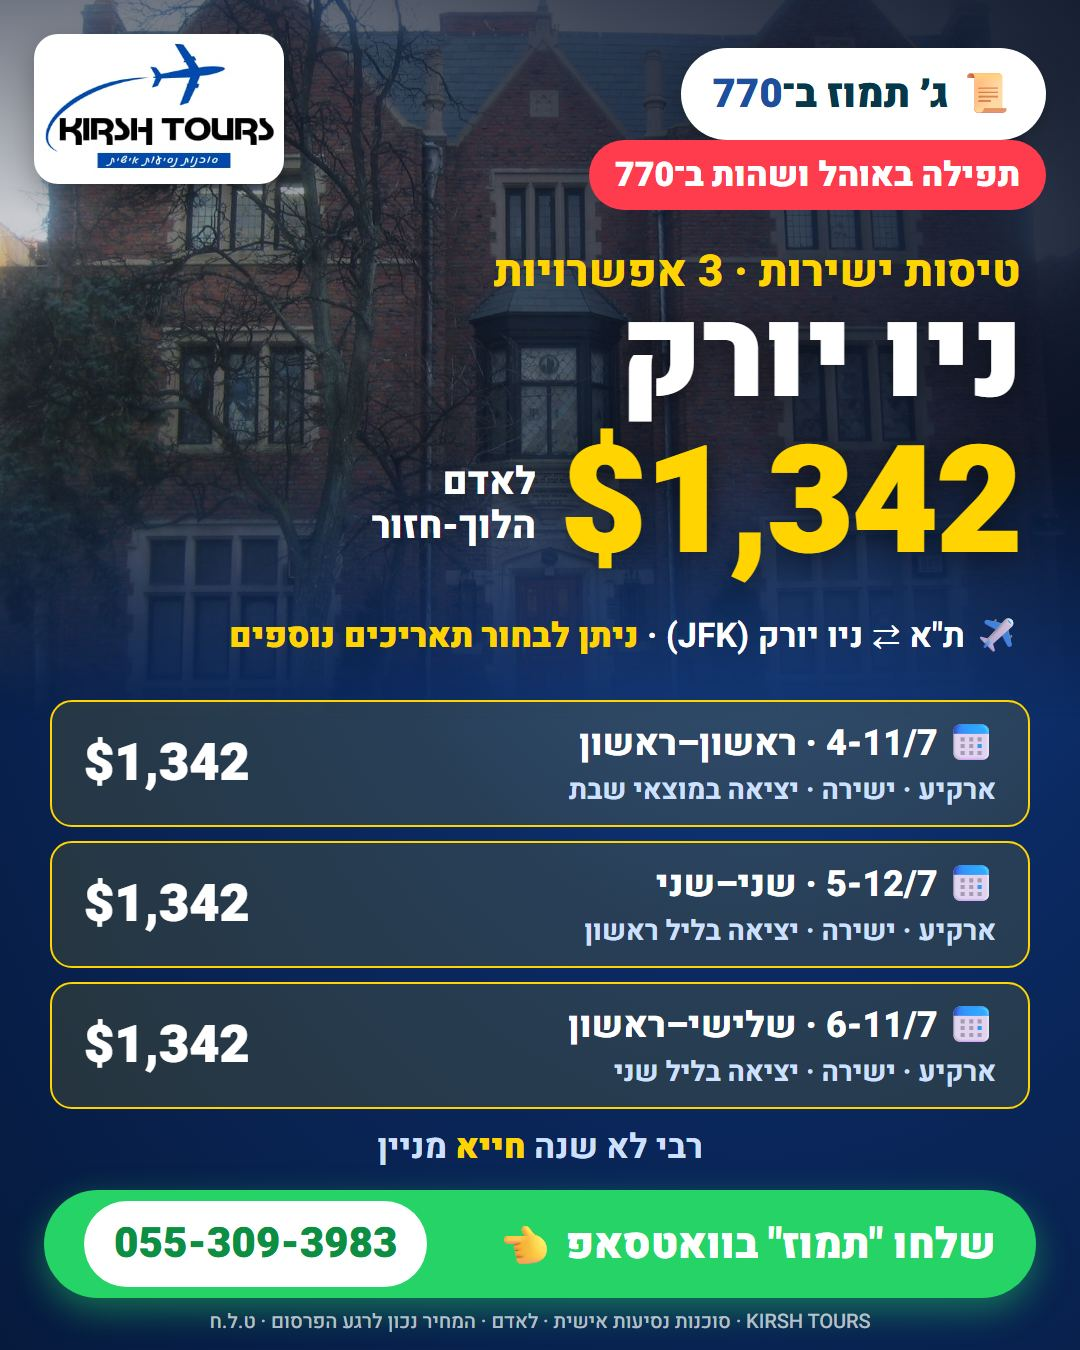
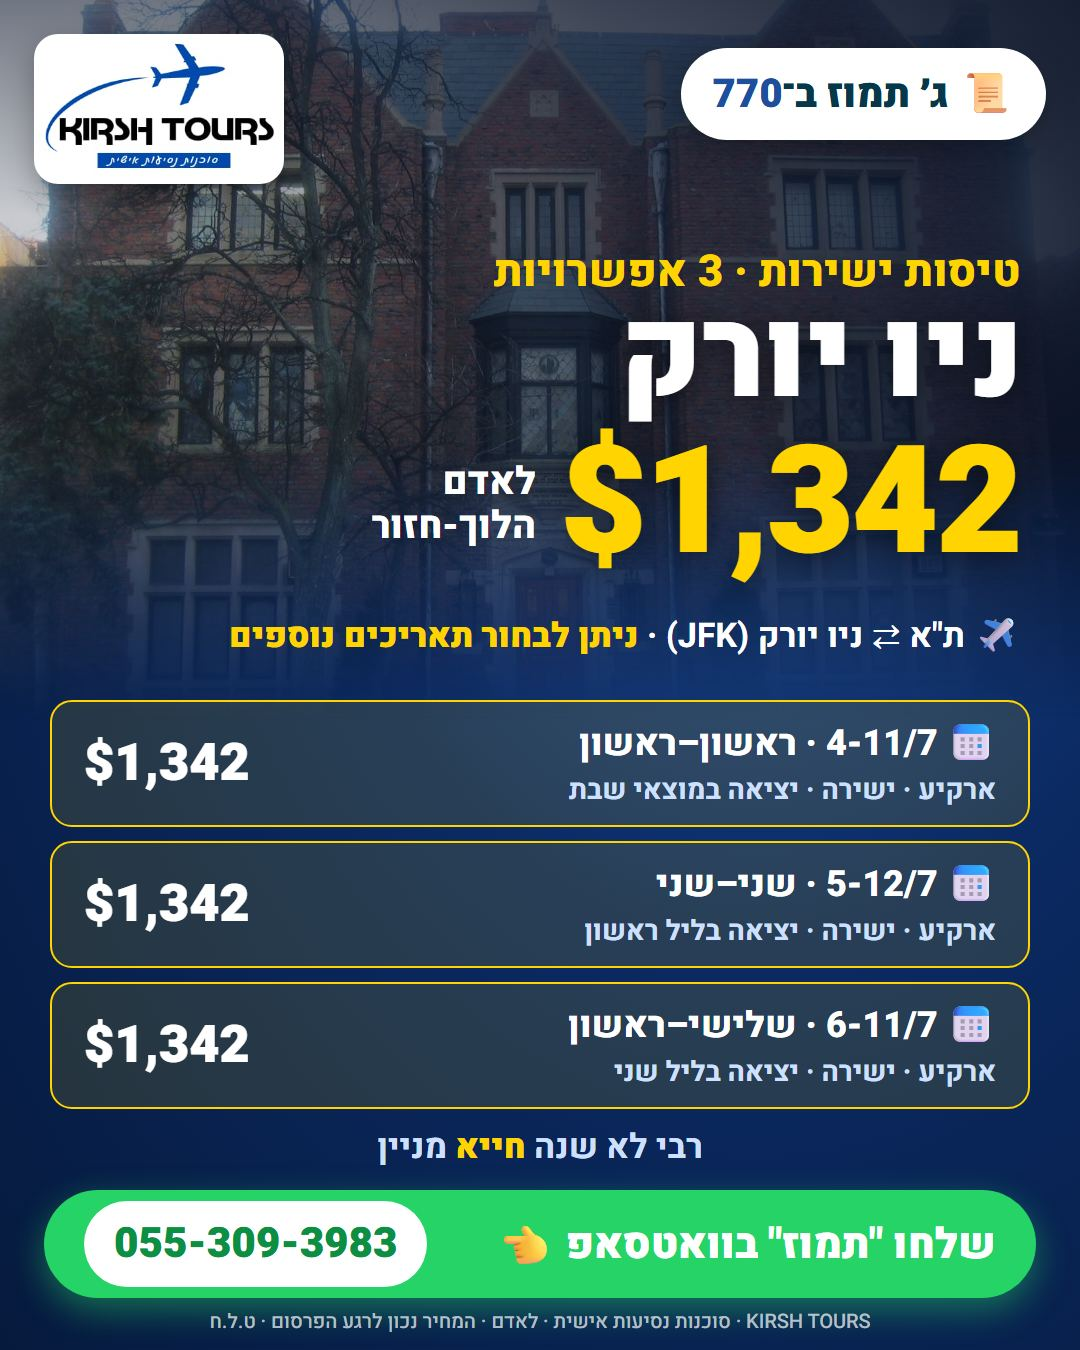
דילים 2026-11-01

Changed region(s): [[0.55, 0.0933, 0.9778, 0.1556]]

diff --git a/770/gimmel-tammuz/index.html b/770/gimmel-tammuz/index.html
@@ -41,7 +41,7 @@
   <div class="slides" aria-hidden="true"><img src="../../770/img/hero/1.jpg" srcset="../../770/img/hero/s-1.jpg 800w, ../../770/img/hero/1.jpg 1600w" sizes="100vw" alt="" class="on" fetchpriority="high"><img data-src="../../770/img/hero/2.jpg" data-srcset="../../770/img/hero/s-2.jpg 800w, ../../770/img/hero/2.jpg 1600w" sizes="100vw" alt=""><img data-src="../../770/img/hero/3.jpg" data-srcset="../../770/img/hero/s-3.jpg 800w, ../../770/img/hero/3.jpg 1600w" sizes="100vw" alt=""><img data-src="../../770/img/hero/4.jpg" data-srcset="../../770/img/hero/s-4.jpg 800w, ../../770/img/hero/4.jpg 1600w" sizes="100vw" alt=""><img data-src="../../770/img/hero/5.jpg" data-srcset="../../770/img/hero/s-5.jpg 800w, ../../770/img/hero/5.jpg 1600w" sizes="100vw" alt=""><img data-src="../../770/img/hero/6.jpg" data-srcset="../../770/img/hero/s-6.jpg 800w, ../../770/img/hero/6.jpg 1600w" sizes="100vw" alt=""></div>
   <div class="wrap">
     <div class="crumbs" data-reveal><a href="../../770/">טיסות ל-770</a> &nbsp;/&nbsp; ג׳ תמוז</div>
-    <h1 data-reveal style="--d:.1s">ג׳ תמוז ב־770<small>תפילה באוהל ושהות ב־770</small></h1>
+    <h1 data-reveal style="--d:.1s">ג׳ תמוז ב־770<small>תל אביב ⇄ ניו יורק (JFK)</small></h1>
   </div>
 </section>
 <div class="wrap deal-layout">

diff --git a/770/index.html b/770/index.html
@@ -127,7 +127,7 @@
   </a>
 <a class="e770" href="gimmel-tammuz/" data-exp="2026-11-15" data-reveal>
     <div class="ev">ג׳ תמוז ב־770</div>
-    <p class="line">תפילה באוהל ושהות ב־770</p>
+    
     <div class="from"><b>$1,342</b> לאדם הלוך-חזור</div>
     <ul><li data-exp="2026-11-15"><span>4-11/7 · ראשון–ראשון<small>ארקיע · ישירה</small></span><b>$1,342</b></li><li data-exp="2026-11-15"><span>5-12/7 · שני–שני<small>ארקיע · ישירה</small></span><b>$1,342</b></li><li data-exp="2026-11-15"><span>6-11/7 · שלישי–ראשון<small>ארקיע · ישירה</small></span><b>$1,342</b></li></ul>
     <span class="go">לשעות הטיסה ולפרטים <span class="arrow" aria-hidden="true">←</span></span>
